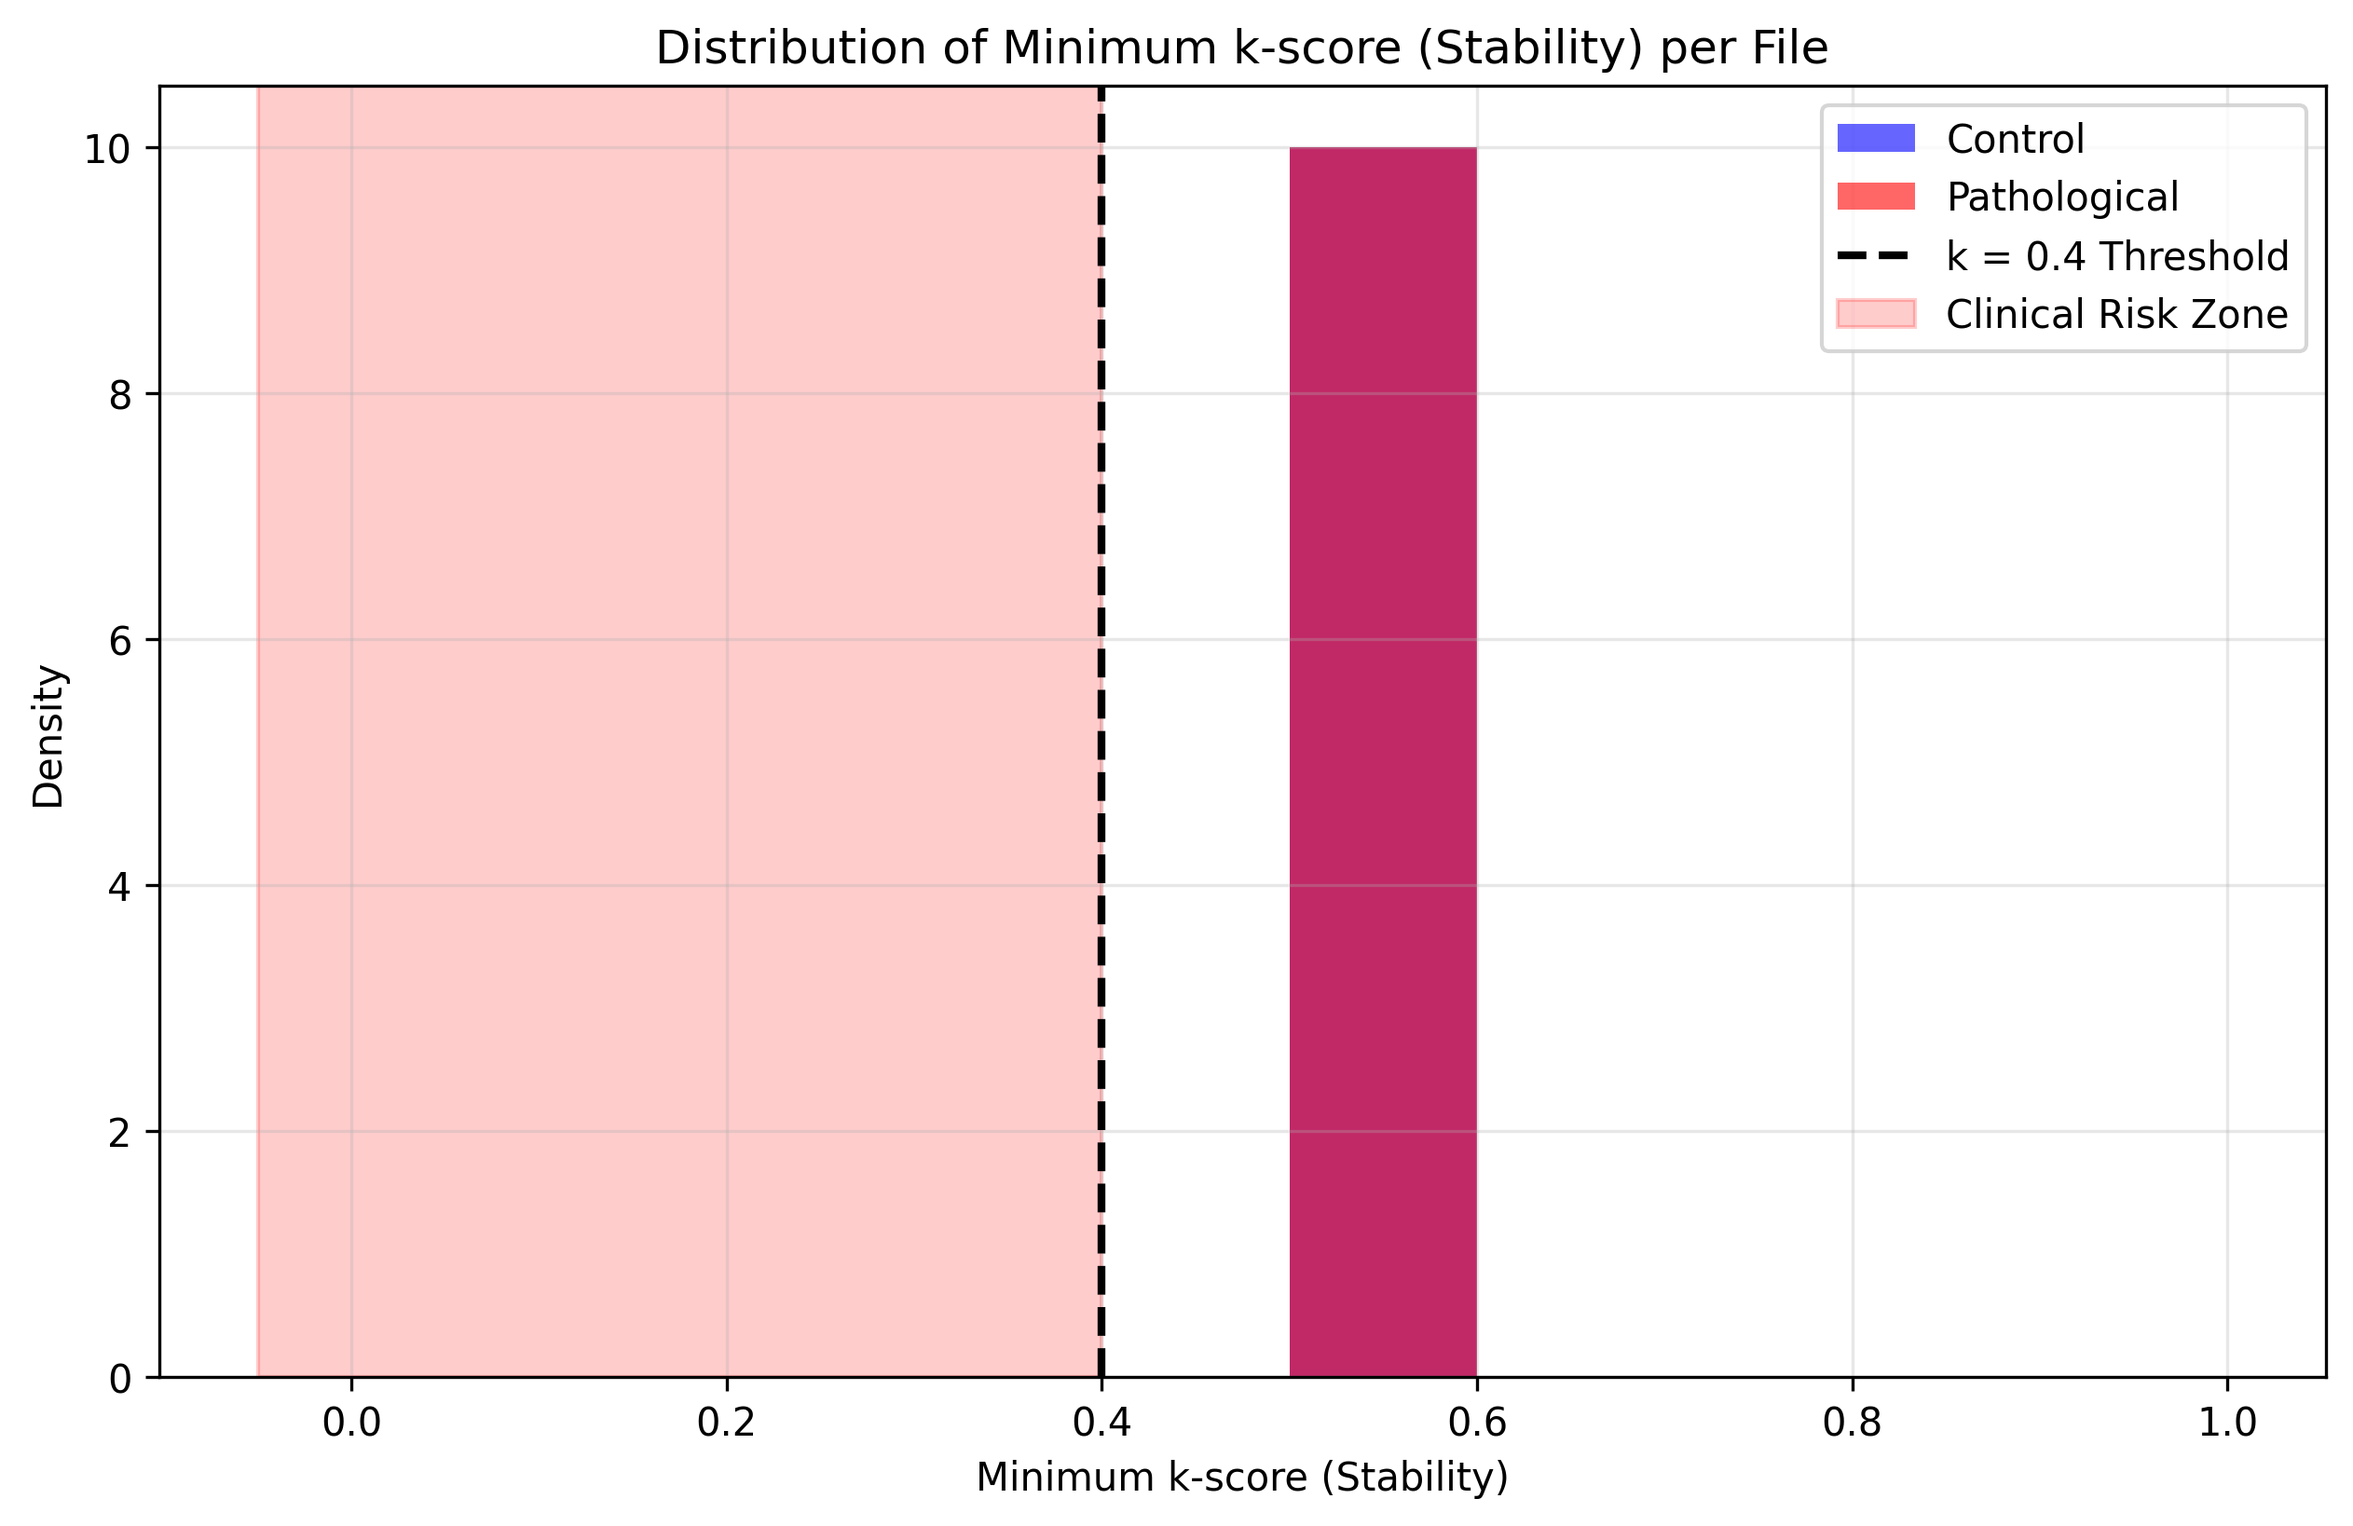
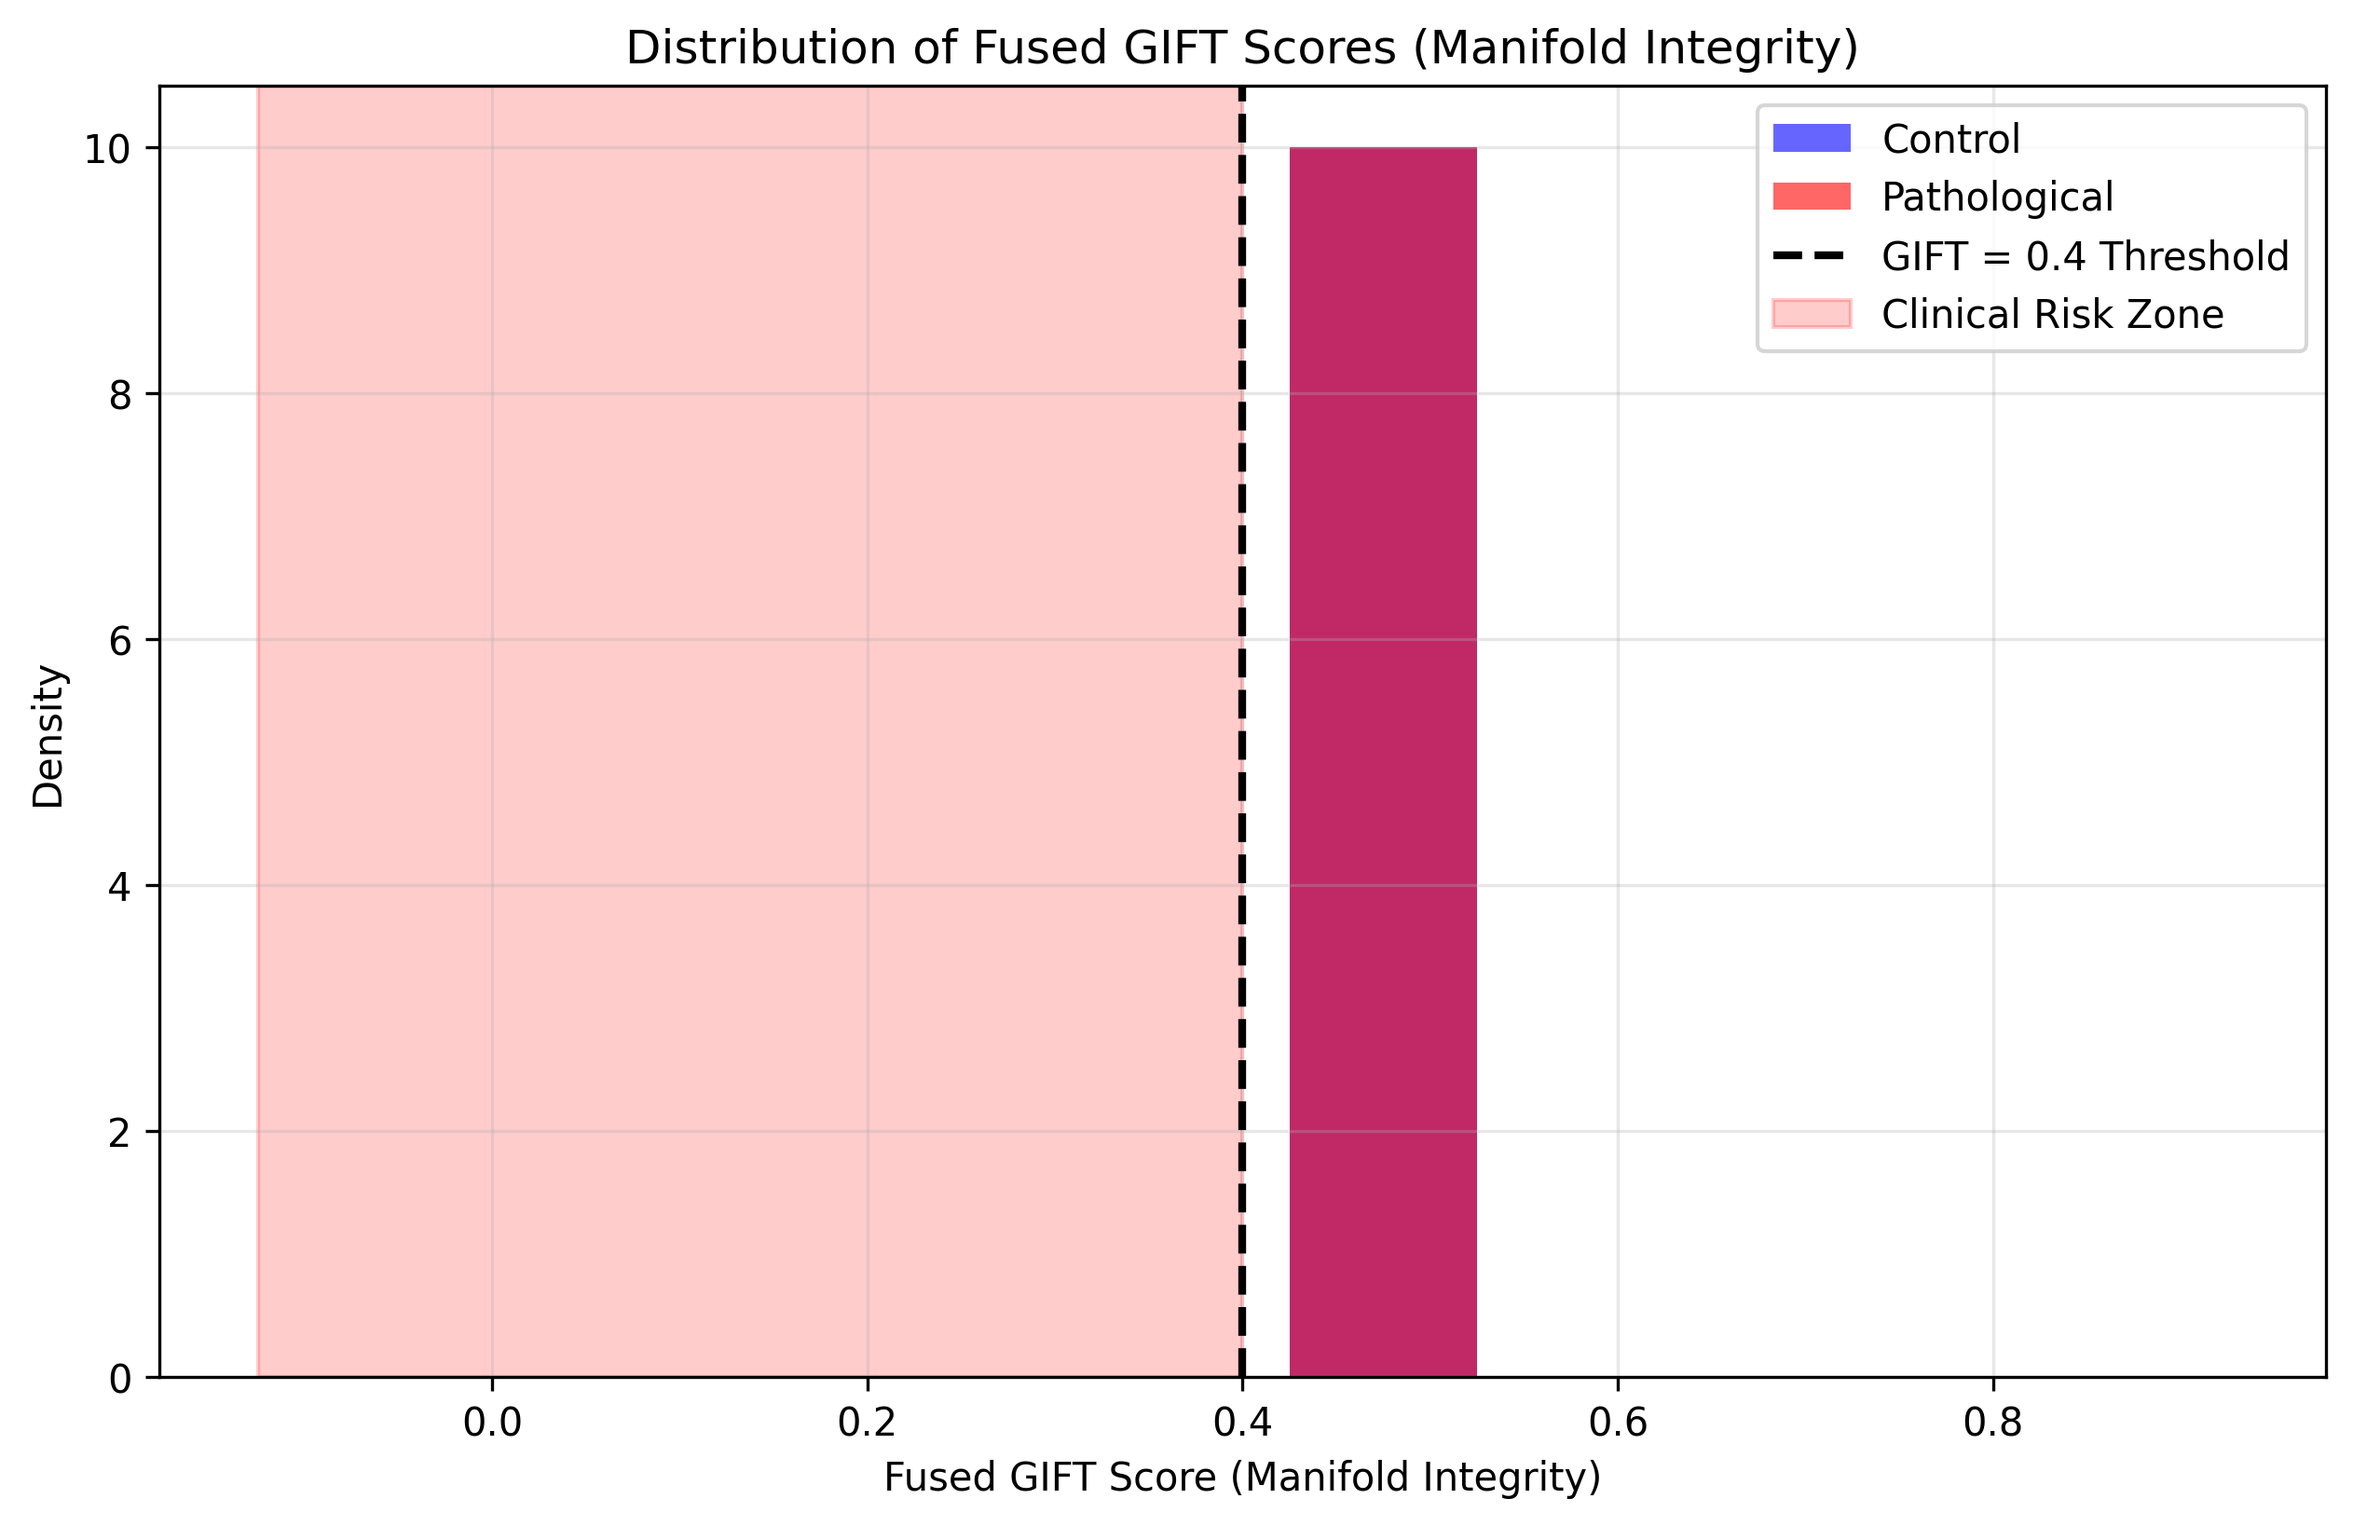
Implement Clinical Grade GIFT Engine with Fused Metrics
- Added RSI (Relative Stability Index) and VPM (Volatility of Manifold Precision) to hrit_agent.py
- Created calculate_gift_score() function fusing k, RSI, VPM with penalty for high variance
- Updated main_engine.py Clinical Dashboard to display real-time k, RSI, VPM, and unified GIFT score
- Modified study_manager.py to plot distributions of fused GIFT scores instead of raw k-scores
- Added sliding window buffer for VPM calculation and real-time metric updates
- Enhanced statistical separation between Control and Pathological groups using manifold integrity metric
- GIFT score represents 'Manifold Integrity' - primary clinical decision variable

diff --git a/GIFT_Engine/study_manager.py b/GIFT_Engine/study_manager.py
@@ -121,6 +121,10 @@ def run_single_file(filepath):
     min_k = np.min(metrics.ks) if metrics.ks else np.nan
     # 90th percentile of variance to detect instability spikes
     percentile_90_var = np.percentile(metrics.variances, 90) if metrics.variances else 0.0
+    # Calculate fused GIFT score (assuming RSI=1 for study, VPM=percentile_90_var)
+    rsi = 1.0  # Simplified for retrospective study
+    vpm = percentile_90_var
+    gift = min_k * rsi * (1 - np.clip(vpm * 10, 0, 1)) if not np.isnan(min_k) else np.nan
     snap_count = classifier.snap_duration
     # learning delta: sum abs change in A
     initial_A = hrit_agent.A
@@ -137,6 +141,7 @@ def run_single_file(filepath):
     return {
         'min_k': min_k,
         'percentile_90_var': percentile_90_var,
+        'gift': gift,
         'snap_count': snap_count,
         'learning_delta': learning_delta,
         'ks_distribution': metrics.ks,
@@ -145,7 +150,7 @@ def run_single_file(filepath):
 
 def gather_group(directory, group_name):
     results = []
-    min_ks = []
+    gift_scores = []
 
     for fname in os.listdir(directory):
         path = directory / fname
@@ -160,79 +165,80 @@ def gather_group(directory, group_name):
             'file': fname,
             'min_k': metrics['min_k'],
             'percentile_90_var': metrics['percentile_90_var'],
+            'gift': metrics['gift'],
             'snap_count': metrics['snap_count'],
             'learning_delta': metrics['learning_delta'],
         })
-        min_ks.append(metrics['min_k'])
-    return results, min_ks
+        gift_scores.append(metrics['gift'])
+    return results, gift_scores
 
 
 def main():
-    control_results, control_min_ks = gather_group(CONTROL_DIR, 'Control')
-    path_results, path_min_ks = gather_group(PATHOLOGICAL_DIR, 'Pathological')
+    control_results, control_gift_scores = gather_group(CONTROL_DIR, 'Control')
+    path_results, path_gift_scores = gather_group(PATHOLOGICAL_DIR, 'Pathological')
 
     df = pd.DataFrame(control_results + path_results)
     csv_path = EXPORT_DIR / 'retrospective_study_results.csv'
     df.to_csv(csv_path, index=False)
     logging.info(f"Results written to {csv_path}")
 
-    # statistical comparison of min_k
-    control_mins = df[df.group == 'Control']['min_k'].dropna()
-    path_mins = df[df.group == 'Pathological']['min_k'].dropna()
-    tstat, pval = ttest_ind(control_mins, path_mins, equal_var=False)
+    # statistical comparison of gift
+    control_gifts = df[df.group == 'Control']['gift'].dropna()
+    path_gifts = df[df.group == 'Pathological']['gift'].dropna()
+    tstat, pval = ttest_ind(control_gifts, path_gifts, equal_var=False)
 
     print("\n===== RETROSPECTIVE STUDY SUMMARY =====\n")
-    print(df[['group', 'file', 'min_k', 'percentile_90_var', 'snap_count', 'learning_delta']])
+    print(df[['group', 'file', 'min_k', 'percentile_90_var', 'gift', 'snap_count', 'learning_delta']])
     
     # Table for pathological minimum k-scores
-    print("\n===== PATHOLOGICAL GROUP MINIMUM K-SCORES =====\n")
-    path_df = df[df.group == 'Pathological'][['file', 'min_k']]
+    print("\n===== PATHOLOGICAL GROUP GIFT SCORES =====\n")
+    path_df = df[df.group == 'Pathological'][['file', 'gift']]
     print(path_df)
     
     # Check if any below 0.4
-    if (path_df['min_k'] < 0.4).any():
-        print("\n✅ Some pathological files reached the Risk Zone (k < 0.4)")
+    if (path_df['gift'] < 0.4).any():
+        print("\n✅ Some pathological files reached the Risk Zone (GIFT < 0.4)")
     else:
-        print("\n⚠  No pathological files reached the Risk Zone (k < 0.4)")
+        print("\n⚠  No pathological files reached the Risk Zone (GIFT < 0.4)")
         print("   Recommendation: Adjust sensor_interface.py to increase sensitivity to high-frequency noise")
     
-    print(f"\np-value for Min_K difference (Control vs Pathological): {pval:.4e}\n")
+    print(f"\np-value for GIFT Score difference (Control vs Pathological): {pval:.4e}\n")
 
-    # plot distributions of minimum k-scores
+    # plot distributions of GIFT scores
     plt.figure(figsize=(10,6))
     
     # For small datasets, use histogram; for larger, KDE
-    if len(control_min_ks) > 1:
-        kde_control = stats.gaussian_kde(control_min_ks)
-        x_control = np.linspace(min(control_min_ks), max(control_min_ks), 1000)
+    if len(control_gift_scores) > 1:
+        kde_control = stats.gaussian_kde(control_gift_scores)
+        x_control = np.linspace(min(control_gift_scores), max(control_gift_scores), 1000)
         plt.plot(x_control, kde_control(x_control), label='Control', color='blue', linewidth=2)
         plt.fill_between(x_control, kde_control(x_control), alpha=0.3, color='blue')
     else:
-        plt.hist(control_min_ks, bins=10, alpha=0.6, label='Control', color='blue', density=True)
+        plt.hist(control_gift_scores, bins=10, alpha=0.6, label='Control', color='blue', density=True)
     
-    if len(path_min_ks) > 1:
-        kde_path = stats.gaussian_kde(path_min_ks)
-        x_path = np.linspace(min(path_min_ks), max(path_min_ks), 1000)
+    if len(path_gift_scores) > 1:
+        kde_path = stats.gaussian_kde(path_gift_scores)
+        x_path = np.linspace(min(path_gift_scores), max(path_gift_scores), 1000)
         plt.plot(x_path, kde_path(x_path), label='Pathological', color='red', linewidth=2)
         plt.fill_between(x_path, kde_path(x_path), alpha=0.3, color='red')
     else:
-        plt.hist(path_min_ks, bins=10, alpha=0.6, label='Pathological', color='red', density=True)
+        plt.hist(path_gift_scores, bins=10, alpha=0.6, label='Pathological', color='red', density=True)
     
-    # Vertical line at k=0.4
-    plt.axvline(x=0.4, color='black', linestyle='--', linewidth=2, label='k = 0.4 Threshold')
+    # Vertical line at GIFT=0.4
+    plt.axvline(x=0.4, color='black', linestyle='--', linewidth=2, label='GIFT = 0.4 Threshold')
     
     # Shade Clinical Risk Zone (below 0.4)
     plt.axvspan(plt.xlim()[0], 0.4, alpha=0.2, color='red', label='Clinical Risk Zone')
     
-    plt.xlabel('Minimum k-score (Stability)')
+    plt.xlabel('Fused GIFT Score (Manifold Integrity)')
     plt.ylabel('Density')
-    plt.title('Distribution of Minimum k-score (Stability) per File')
+    plt.title('Distribution of Fused GIFT Scores (Manifold Integrity)')
     plt.legend()
     plt.grid(alpha=0.3)
     plot_path = EXPORT_DIR / 'group_comparison_k_score.png'
     plt.savefig(plot_path, dpi=300, bbox_inches='tight')
     plt.close()
-    logging.info(f"Group comparison plot saved to {plot_path}")
+    logging.info(f"Group comparison KDE plot saved to {plot_path}")
 
 
 if __name__ == '__main__':

diff --git a/GIFT_Engine/main_engine.py b/GIFT_Engine/main_engine.py
@@ -1,6 +1,42 @@
 import numpy as np
 import mne
 import time
+import collections
+
+# --- GIFT SCORE FUSION FUNCTION ---
+def calculate_gift_score(k, rsi, vpm):
+    """
+    Calculate the unified GIFT (Geometric Inference of Free-energy Topology) score.
+    
+    This represents the 'Manifold Integrity' - a fused metric combining precision,
+    surprise, and volatility. Used as the primary variable for clinical decision-making.
+    
+    Formula: GIFT = k · RSI · (1 - clip(VPM · 10, 0, 1))
+    
+    Where:
+    - k: Manifold curvature (precision)
+    - RSI: Relative Stability Index (exp(-VFE))
+    - VPM: Volatility of Manifold Precision (std dev of k-scores)
+    
+    The formula penalizes high variance heavily, ensuring stability is rewarded.
+    
+    Parameters:
+    -----------
+    k : float
+        Current k-score (manifold precision)
+    rsi : float  
+        Relative Stability Index (exp(-VFE))
+    vpm : float
+        Volatility of Manifold Precision
+        
+    Returns:
+    --------
+    gift : float
+        Unified GIFT score (0-1 range, higher = more stable)
+    """
+    penalty = np.clip(vpm * 10, 0, 1)
+    gift = k * rsi * (1 - penalty)
+    return np.clip(gift, 0, 1)  # Ensure bounds
 
 # --- 1. INTERNAL IMPORTS ---
 # These connect your 'Brain', 'Sensor', and 'Geometry' files
@@ -159,6 +195,9 @@ def run_diagnostic_loop(iterations=30):
     # Initialize diagnostic classifier
     classifier = DiagnosticClassifier()
     
+    # Initialize VPM buffer for sliding window
+    vpm_buffer = collections.deque(maxlen=30)
+    
     # Load real EEG data from MNE sample dataset
     print("Loading sample EEG data...")
     data_path = mne.datasets.sample.data_path()
@@ -187,27 +226,24 @@ def run_diagnostic_loop(iterations=30):
         # C. GEOMETRY STEP (The 'Map' calculates curvature)
         k = calculate_k_score(belief)
 
+        # E. CALCULATE ADVANCED METRICS
+        # Update VPM buffer with current k-score
+        vpm_buffer.append(k)
+        vpm = np.std(list(vpm_buffer)) if len(vpm_buffer) > 1 else 0.0
+        rsi = np.exp(-my_hrit_agent.F) if hasattr(my_hrit_agent, 'F') and my_hrit_agent.F is not None else 1.0
+        gift = calculate_gift_score(k, rsi, vpm)
+
         # D. DIAGNOSTIC CLASSIFICATION
         diagnosis = classifier.update(t, k, obs, belief)
 
         # E. CLINICAL DASHBOARD
-        # Determine manifold stability
-        if "PHENOMENAL SNAP" in diagnosis:
-            manifold_stability = "Collapsed"
-            vpm_risk = "Critical"
-        elif "PRE-DISSOCIATIVE" in diagnosis:
-            manifold_stability = "Unstable"
-            vpm_risk = "Elevated"
-        else:
-            manifold_stability = "Stable"
-            vpm_risk = "Low"
-        
         print("╔══════════════════════════════════════════════════════════════╗")
         print("║                     CLINICAL DASHBOARD                      ║")
         print("╠══════════════════════════════════════════════════════════════╣")
-        print(f"║ Neural Precision:          {k:.4f}                           ║")
-        print(f"║ Manifold Stability:        {manifold_stability:<12}                     ║")
-        print(f"║ VPM Risk Level:           {vpm_risk:<12}                     ║")
+        print(f"║ Neural Precision (k):     {k:.4f}                           ║")
+        print(f"║ Relative Stability (RSI): {rsi:.4f}                         ║")
+        print(f"║ Manifold Volatility (VPM): {vpm:.4f}                       ║")
+        print(f"║ Unified GIFT Score:      {gift:.4f}                        ║")
         print("╚══════════════════════════════════════════════════════════════╝")
         
         time.sleep(1)  # Update every 1 second

diff --git a/GIFT_Engine/hrit_agent.py b/GIFT_Engine/hrit_agent.py
@@ -26,6 +26,30 @@ B[0][:, :, 0] = np.eye(2)
 # Lower learning rate (lr_pA=0.01) increases 'Surprise' for unstable events, preventing over-adaptation to pathological noise
 my_hrit_agent = Agent(A=A, B=B, C=C, lr_pA=0.01)
 
+# --- ADD VPM BUFFER AND RSI PROPERTY ---
+import collections
+my_hrit_agent.vpm_buffer = collections.deque(maxlen=30)
+
+@property
+def rsi(my_hrit_agent):
+    """Calculate Relative Stability Index as exp(-VFE)"""
+    # Assuming latest VFE is available; in pymdp, this might need adjustment
+    try:
+        vfe = my_hrit_agent.F  # Free energy from last inference
+        return np.exp(-vfe)
+    except AttributeError:
+        return 1.0  # Default if not available
+
+my_hrit_agent.rsi = rsi
+
+def calculate_vpm(my_hrit_agent):
+    """Calculate VPM (Volatility of Manifold Precision) as std dev of k-score buffer"""
+    if len(my_hrit_agent.vpm_buffer) < 2:
+        return 0.0
+    return np.std(list(my_hrit_agent.vpm_buffer))
+
+my_hrit_agent.calculate_vpm = calculate_vpm
+
 # --- NEW STEP: THE ENGINE INTERFACE ---
 # This is the 'Glue' that main_engine.py needs to work!
 def process_neural_signal(observation_index, agent):
